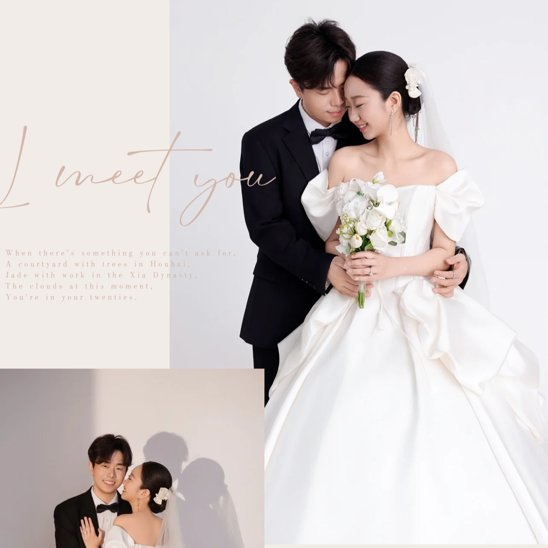
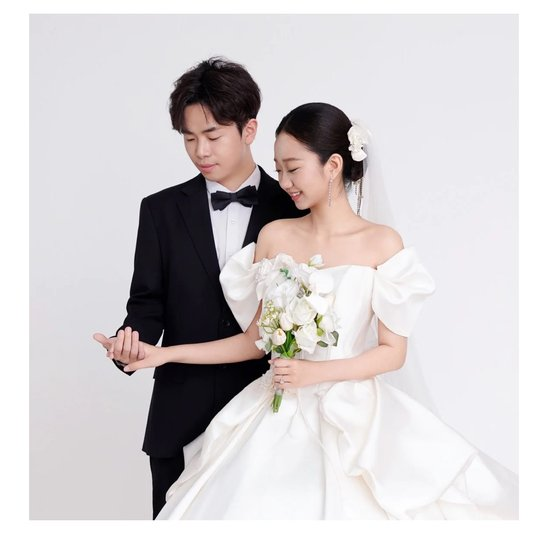
fix: update venue to 百合茗宴(全季店) and regenerate share thumb
- Venue: 海悦府(泉州洛江) -> 百合茗宴(全季店)(徐州泉山区)
- Address: 江苏省徐州市泉山区北京北路与欣欣路交汇处大润发北侧
- Amap navigation: keyword=百合茗宴(全季店), city=徐州
- Share thumb: regenerated from first couple portrait (clean crop, no text labels)

diff --git a/static/wedding/index.html b/static/wedding/index.html
@@ -5,16 +5,16 @@
     <meta name="viewport" content="width=device-width, initial-scale=1.0, maximum-scale=1.0, user-scalable=no">
     <meta name="theme-color" content="#f7efe6">
     <title>黄竟通 ♥ 姜雪澳 · 婚礼邀请函</title>
-    <meta name="description" content="2026年10月11日 · 福建省泉州市洛江区 · 海悦府宴会酒店(洛江店)">
+    <meta name="description" content="2026年10月11日 · 江苏省徐州市泉山区 · 百合茗宴(全季店)">
 
     <!-- 微信分享专用标签 -->
     <meta name="wx.share.title" content="黄竟通 ♥ 姜雪澳 · 婚礼邀请函">
-    <meta name="wx.share.desc" content="2026年10月11日(周六)上午11:00 · 泉州海悦府宴会酒店 · 诚邀您共赴这场关于爱与承诺的邀约">
+    <meta name="wx.share.desc" content="2026年10月11日(周六)上午11:00 · 徐州百合茗宴(全季店) · 诚邀您共赴这场关于爱与承诺的邀约">
     <meta name="wx.share.img" content="https://arc-huangjingtong.com/wedding/share-thumb.jpg">
 
     <!-- Open Graph 标签(其他平台兜底) -->
     <meta property="og:title" content="黄竟通 ♥ 姜雪澳 · 婚礼邀请函">
-    <meta property="og:description" content="2026年10月11日(周六)上午11:00 · 泉州海悦府宴会酒店 · 诚邀您共赴这场关于爱与承诺的邀约">
+    <meta property="og:description" content="2026年10月11日(周六)上午11:00 · 徐州百合茗宴(全季店) · 诚邀您共赴这场关于爱与承诺的邀约">
     <meta property="og:image" content="https://arc-huangjingtong.com/wedding/share-thumb.jpg">
     <meta property="og:type" content="website">
     <meta property="og:url" content="https://arc-huangjingtong.com/wedding/">
@@ -318,8 +318,8 @@
         <div class="detail-row">
             <div class="label">地点</div>
             <div class="value" id="venue-address">
-                海悦府宴会酒店(洛江店)
-                <small>福建省泉州市洛江区宏泰路海悦府</small>
+                百合茗宴(全季店)
+                <small>江苏省徐州市泉山区北京北路与欣欣路交汇处大润发北侧</small>
             </div>
         </div>
         <div class="detail-row">
@@ -364,8 +364,8 @@
         // 2) URL Scheme 在移动端可唤起高德 App,PC 端打开网页版
         // 3) 添加 src 参数用于来源追踪
         (function () {
-            const venueName = '海悦府宴会酒店(洛江店)';
-            const city = '泉州';
+            const venueName = '百合茗宴(全季店)';
+            const city = '徐州';
             const amapUrl = 'https://uri.amap.com/search?keyword='
                 + encodeURIComponent(venueName)
                 + '&city=' + encodeURIComponent(city)
@@ -375,7 +375,7 @@
 
             // 复制地址
             const copyBtn = document.getElementById('copy-btn');
-            const address = '海悦府宴会酒店(洛江店),福建省泉州市洛江区宏泰路海悦府';
+            const address = '百合茗宴(全季店),江苏省徐州市泉山区北京北路与欣欣路交汇处大润发北侧';
             const toast = document.getElementById('toast');
 
             function showToast(msg) {
